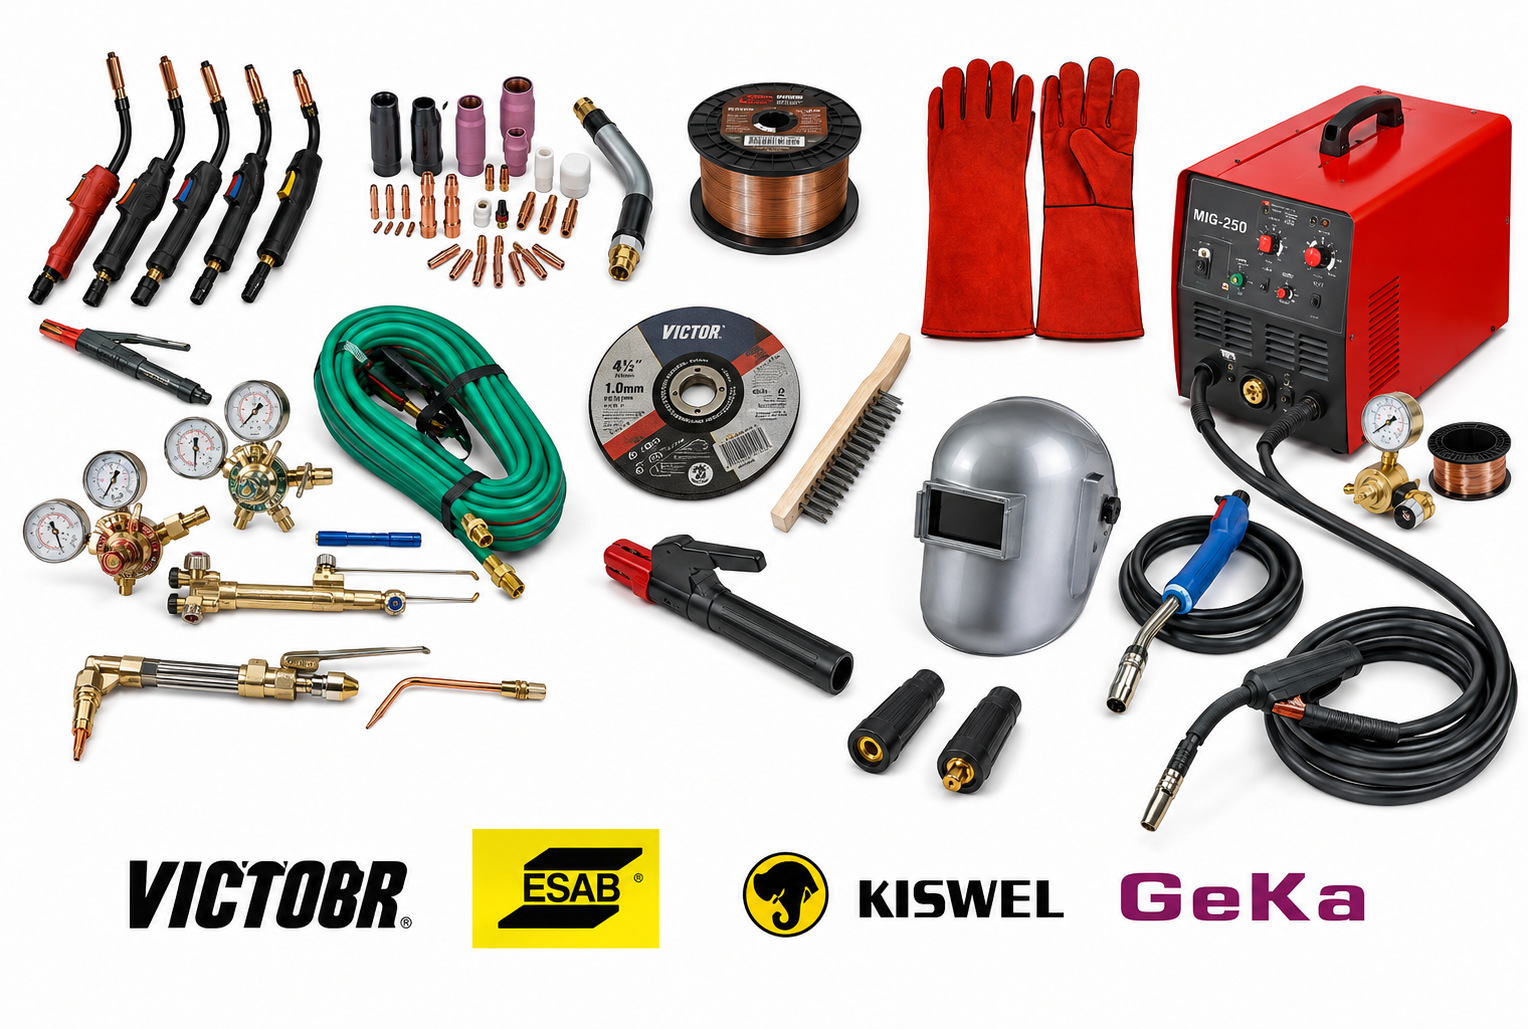
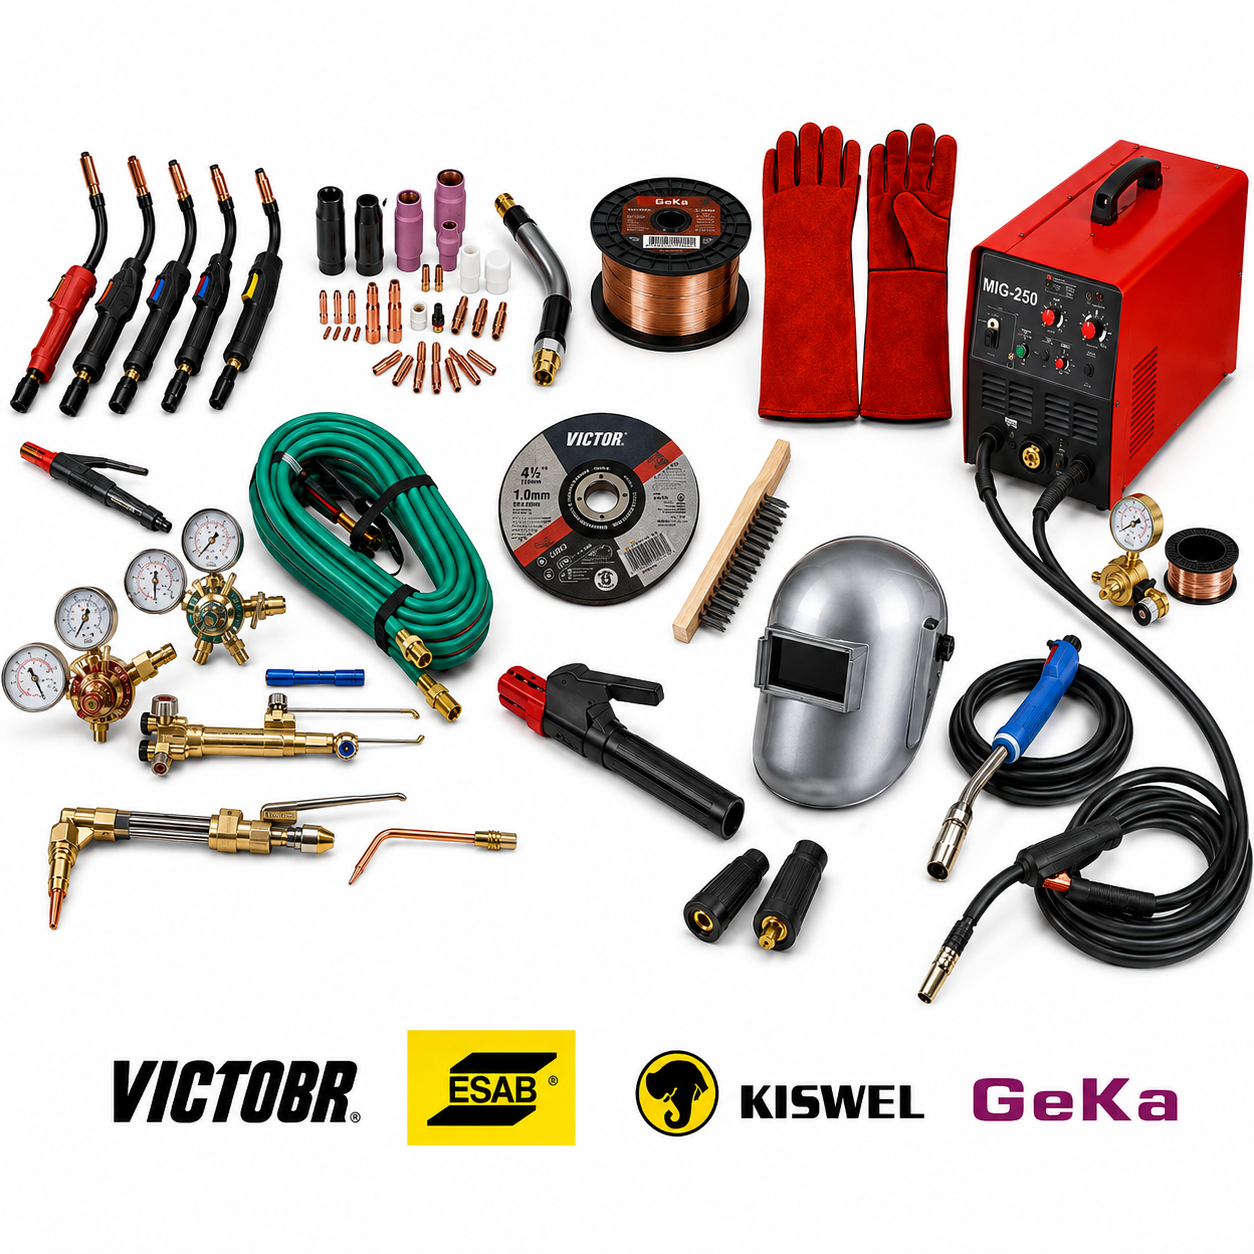
make product images square/responsive

diff --git a/src/pages/IndustrialServices.jsx b/src/pages/IndustrialServices.jsx
@@ -81,7 +81,7 @@ const PRODUCTS = [
   },
   {
     id: 'forged-cs-fittings',
-    img: '/images/Industrial_Materials/FORGED_CARBON STEEL_FITTINGS.webp',
+    img: '/images/Industrial_Materials/FORGED_CARBON_20STEEL_FITTINGS.png',
     tagKey: 'Piping Systems',
     titleKey: 'Forged Carbon Steel Fittings',
     descKey: 'Heavy-duty forged Carbon Steel threaded and socket weld fittings designed for high-pressure piping applications where strength, safety and long service life are essential.',
@@ -89,7 +89,7 @@ const PRODUCTS = [
   },
   {
     id: 'forged-ss-fittings',
-    img: '/images/Industrial_Materials/FORGED_STAINLESS_STEEL_FITTINGS.webp',
+    img: '/images/Industrial_Materials/FORGED_STAINLESS_STEEL_FITTINGS.png',
     tagKey: 'Piping Systems',
     titleKey: 'Forged Stainless Steel Fittings',
     descKey: 'Forged Stainless Steel fittings provide reliable threaded and socket weld connections for corrosive and high-pressure industrial piping applications.',
@@ -111,7 +111,7 @@ const PRODUCTS = [
   },
   {
     id: 'fire-hydrant-grooved-fittings',
-    img: '/images/Industrial_Materials/FIRE_HYDRANT_& GROOVED_FITTINGS.webp',
+    img: '/images/Industrial_Materials/FIRE_HYDRANT_&_20GROOVED_FITTINGS.png',
     tagKey: 'Fire Protection',
     titleKey: 'Fire Hydrant & Grooved Fittings',
     descKey: 'Complete range of fire hydrants, grooved couplings, valves and accessories designed for dependable fire protection systems in commercial and industrial facilities.',
@@ -126,7 +126,7 @@ const PRODUCTS = [
   },
   {
     id: 'instrumentation-accessories-tube-fittings',
-    img: '/images/Industrial_Materials/INSTRUMENTATION_ACCESSORIES_TUBE FITTINGS.webp',
+    img: '/images/Industrial_Materials/INSTRUMENTATION_ACCESSORIES_TUBE_20FITTINGS.png',
     tagKey: 'Instrumentation',
     titleKey: 'Instrumentation Accessories & Tube Fittings',
     descKey: 'Precision tube fittings, valves, gauges and instrumentation accessories manufactured for accurate fluid control and industrial process measurement applications.',
@@ -140,7 +140,7 @@ const PRODUCTS = [
   },
   {
     id: 'valves',
-    img: '/images/Industrial_Materials/VALVES.webp',
+    img: '/images/Industrial_Materials/VALVES.png',
     tagKey: 'Flow Control',
     titleKey: 'Valves',
     descKey: 'Industrial valves engineered for efficient flow control across oil and gas, water treatment, power generation and process industries with dependable sealing performance.',
@@ -148,7 +148,7 @@ const PRODUCTS = [
   },
   {
     id: 'fasteners-stud-bolts',
-    img: '/images/Industrial_Materials/FASTENERS_AND_STUD.webp',
+    img: '/images/Industrial_Materials/FASTENERS_AND_STUD.png',
     tagKey: 'Industrial Supplies',
     titleKey: 'Fasteners & Stud Bolts',
     descKey: 'Industrial fasteners including bolts, nuts, washers and stud bolts manufactured for secure structural and piping connections in demanding industrial environments.',
@@ -162,7 +162,7 @@ const PRODUCTS = [
   },
   {
     id: 'gasket-insulation-kits',
-    img: '/images/Industrial_Materials/GASKET_AND_INSULATION_KITS.webp',
+    img: '/images/Industrial_Materials/GASKET_AND_INSULATION_KITS.png',
     tagKey: 'Industrial Supplies',
     titleKey: 'Gasket & Insulation Kits',
     descKey: 'Industrial sealing products designed to minimize leakage, improve safety and maintain reliable flange performance across various piping applications.',
@@ -207,7 +207,7 @@ const PRODUCTS = [
   },
   {
     id: 'cable-tray-ladder-support',
-    img: '/images/Industrial_Materials/CABLE_TRAY_&_LADDER_SUPPORT.png',
+    img: '/images/Industrial_Materials/CABLE_TRAY_&_LADDER_SUPPORT.webp',
     tagKey: 'Cable Management',
     titleKey: 'Cable Tray & Ladder Support',
     descKey: 'Cable trays and ladder support systems designed for organized, secure and efficient cable routing across industrial facilities.',
@@ -407,7 +407,7 @@ export default function IndustrialServices() {
             {PRODUCTS.map(p => (
               <div key={p.titleKey} className="product-block" id={p.id}>
                 <div style={{ position: 'relative' }}>
-                  <img src={p.img} alt={t(p.titleKey)} className="product-block-img" style={{ aspectRatio: '16/10' }} />
+                  <img src={p.img} alt={t(p.titleKey)} className="product-block-img" style={{ aspectRatio: '1/1' }} />
                 </div>
                 <div className="product-block-body" style={{ padding: '1.25rem' }}>
                   <span className="product-block-tag">{t(p.tagKey)}</span>

diff --git a/src/pages/About.jsx b/src/pages/About.jsx
@@ -27,6 +27,8 @@ const TEAM = [
   { id: 1, name: 'Mohammad Abdulla Albloshi', roleKey: 'about_team_1_role', bioKey: 'about_team_1_bio' },
   { id: 2, name: 'Mohammad Riaz', roleKey: 'about_team_2_role', bioKey: 'about_team_2_bio' },
   { id: 3, name: 'Eng. Fahad Al-Mutairi', roleKey: 'about_team_3_role', bioKey: 'about_team_3_bio' },
+  { id: 4, name: 'Sajid Pachhapure', roleKey: 'about_team_4_role', bioKey: 'about_team_4_bio', img: '/images/team/sajid_pachhapure.jpg.jpeg' },
+  { id: 5, name: 'Ajay Adnala', roleKey: 'about_team_5_role', bioKey: 'about_team_5_bio', img: '/images/team/ajay_adnala.jpeg' },
 ];
 
 const NETWORK_CARDS = [
@@ -177,21 +179,25 @@ export default function About() {
             {TEAM.map(m => (
               <div key={m.id} className="team-card">
                 <div className="team-img-wrapper">
-                  <svg className="team-img default-avatar-svg" viewBox="0 0 100 100" xmlns="http://www.w3.org/2000/svg">
-                    <defs>
-                      <linearGradient id={`avatarGradAbout${m.id}`} x1="0%" y1="0%" x2="100%" y2="100%">
-                        <stop offset="0%" stopColor="#f8fafc" />
-                        <stop offset="100%" stopColor="#cbd5e1" />
-                      </linearGradient>
-                      <linearGradient id={`primaryGradAbout${m.id}`} x1="0%" y1="0%" x2="100%" y2="100%">
-                        <stop offset="0%" stopColor="#1B5FAF" />
-                        <stop offset="100%" stopColor="#0b2246" />
-                      </linearGradient>
-                    </defs>
-                    <rect width="100" height="100" fill={`url(#avatarGradAbout${m.id})`} />
-                    <circle cx="50" cy="40" r="18" fill={`url(#primaryGradAbout${m.id})`} opacity="0.85" />
-                    <path d="M20 80C20 63.43 33.43 50 50 50C66.57 50 80 63.43 80 80V85H20V80Z" fill={`url(#primaryGradAbout${m.id})`} opacity="0.85" />
-                  </svg>
+                  {m.img ? (
+                    <img src={m.img} alt={m.name} className="team-img" style={{ objectFit: 'cover' }} />
+                  ) : (
+                    <svg className="team-img default-avatar-svg" viewBox="0 0 100 100" xmlns="http://www.w3.org/2000/svg">
+                      <defs>
+                        <linearGradient id={`avatarGradAbout${m.id}`} x1="0%" y1="0%" x2="100%" y2="100%">
+                          <stop offset="0%" stopColor="#f8fafc" />
+                          <stop offset="100%" stopColor="#cbd5e1" />
+                        </linearGradient>
+                        <linearGradient id={`primaryGradAbout${m.id}`} x1="0%" y1="0%" x2="100%" y2="100%">
+                          <stop offset="0%" stopColor="#1B5FAF" />
+                          <stop offset="100%" stopColor="#0b2246" />
+                        </linearGradient>
+                      </defs>
+                      <rect width="100" height="100" fill={`url(#avatarGradAbout${m.id})`} />
+                      <circle cx="50" cy="40" r="18" fill={`url(#primaryGradAbout${m.id})`} opacity="0.85" />
+                      <path d="M20 80C20 63.43 33.43 50 50 50C66.57 50 80 63.43 80 80V85H20V80Z" fill={`url(#primaryGradAbout${m.id})`} opacity="0.85" />
+                    </svg>
+                  )}
                 </div>
                 <div className="team-info">
                   <h3>{m.name}</h3>

diff --git a/src/lib/translations.js b/src/lib/translations.js
@@ -205,6 +205,12 @@ export const translations = {
     about_team_3_role: "Director of Operations & Logistics",
     about_team_3_bio:
       "Directing logistics operations, warehousing networks, and quality compliance logs across all supply divisions.",
+    about_team_4_role: "Director",
+    about_team_4_bio:
+      "Guiding the company's strategic vision and operations.",
+    about_team_5_role: "Director",
+    about_team_5_bio:
+      "Driving growth and operational excellence across the organization.",
     about_network_title: "Robust Saudi Distribution Network",
     about_network_desc:
       "Headquartered strategically in Dammam to support the industrial heartland of the Eastern Province, Albloshi operates comprehensive localized fulfillment pipelines across primary commercial hubs.",
@@ -1021,6 +1027,12 @@ export const translations = {
     about_team_3_role: "مدير العمليات واللوجستيات",
     about_team_3_bio:
       "يدير العمليات اللوجستية وشبكات التخزين وسجلات الامتثال للجودة عبر جميع أقسام التوريد.",
+    about_team_4_role: "مدير",
+    about_team_4_bio:
+      "توجيه الرؤية الاستراتيجية للشركة وعملياتها.",
+    about_team_5_role: "مدير",
+    about_team_5_bio:
+      "قيادة النمو والتميز التشغيلي في جميع أنحاء المؤسسة.",
     about_network_title: "شبكة توزيع سعودية قوية",
     about_network_desc:
       "بمقر رئيسي استراتيجي في الدمام لدعم القلب الصناعي للمنطقة الشرقية، تدير البلوشي خطوط توريد محلية شاملة عبر المراكز التجارية الرئيسية.",

diff --git a/src/pages/FoodServices.jsx b/src/pages/FoodServices.jsx
@@ -237,7 +237,7 @@ export default function FoodServices() {
             {PRODUCTS.map(p => (
               <div key={p.titleKey} className="product-block" id={p.id} style={p.comingSoon ? { opacity: 0.85 } : {}}>
                 <div style={{ position: 'relative' }}>
-                  <img src={p.img} alt={t(p.titleKey)} className="product-block-img" style={{ aspectRatio: '16/10', ...(p.comingSoon ? { filter: 'brightness(0.75)' } : {}) }} />
+                  <img src={p.img} alt={t(p.titleKey)} className="product-block-img" style={{ aspectRatio: '1/1', ...(p.comingSoon ? { filter: 'brightness(0.75)' } : {}) }} />
                   {p.comingSoon && (
                     <div style={{ position: 'absolute', top: '1rem', right: '1rem', background: 'var(--color-primary)', color: 'white', fontSize: '0.78rem', fontWeight: '700', padding: '0.35rem 0.9rem', borderRadius: '50px', letterSpacing: '0.5px' }}>
                       {t('food_coming_soon_badge')}
@@ -273,7 +273,7 @@ export default function FoodServices() {
             {NEW_PRODUCTS.map(p => (
               <div key={p.titleKey} className="product-block" id={p.id}>
                 <div style={{ position: 'relative' }}>
-                  <img src={p.img} alt={t(p.titleKey)} className="product-block-img" style={{ aspectRatio: '16/10' }} />
+                  <img src={p.img} alt={t(p.titleKey)} className="product-block-img" style={{ aspectRatio: '1/1' }} />
                 </div>
                 <div className="product-block-body" style={{ padding: '1.25rem' }}>
                   <span className="product-block-tag">{t(p.tagKey)}</span>
